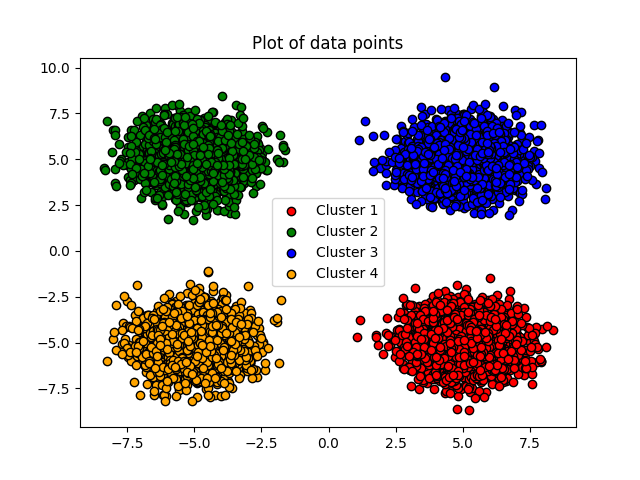
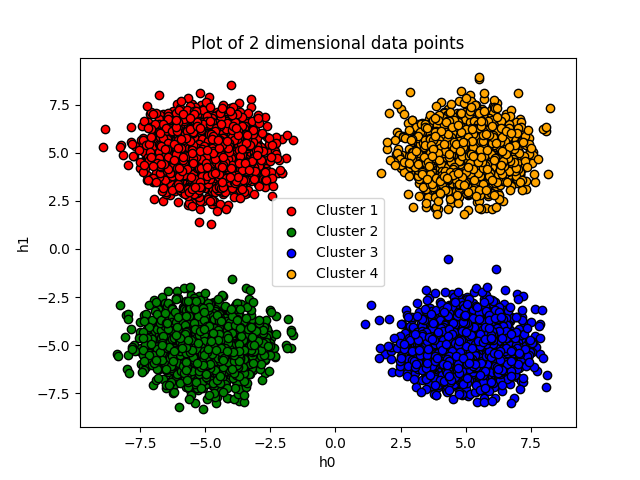
small change

diff --git a/Data/synthetic_plots.py b/Data/synthetic_plots.py
@@ -33,8 +33,9 @@ def plot_points(x, y):
     plt.scatter(x2, y2, color=['green'], label='Cluster 2', edgecolors=(0, 0, 0))
     plt.scatter(x3, y3, color=['blue'], label='Cluster 3', edgecolors=(0, 0, 0))
     plt.scatter(x4, y4, color=['orange'], label='Cluster 4', edgecolors=(0, 0, 0))
+    plt.xlabel("h0")
+    plt.ylabel("h1")
     plt.legend()
-    plt.title('Plot of data points')
 
 
 # Assigning cluster no. based on coordinate system
@@ -61,7 +62,7 @@ def sigmoid(z):
     return z_hat
 
 
-def to_higher_dimension(x):
+def to_higher_dimension(x, y):
     """
     transform data from 2-d to 100-d using non-linear transformation
     assume data points to be 2-dimension
@@ -73,24 +74,34 @@ def to_higher_dimension(x):
     W = np.random.normal(loc=0, scale=1, size=(10, 2))
     # U=np.random.normal(loc=0,scale=1,size=(100,10))
     x_new = np.square(sigmoid(np.dot(W, x.T))).T
-    return x_new
+    return x_new, y
 
 
-def to_higher_dimension2(x):
+def to_higher_dimension2(x, y):
     W = np.random.normal(loc=0, scale=1, size=(10, 2))
     # U=np.random.normal(loc=0,scale=1,size=(100,10))
     x_new = np.tanh(sigmoid(np.dot(W, x.T))).T
-    return x_new
+    return x_new, y
+
+
+def to_higher_dimension3(x, y):
+    W = np.random.normal(loc=0, scale=1, size=(10, 2))
+    U = np.random.normal(loc=0, scale=1, size=(100, 10))
+
+    x_new = sigmoid(np.dot(U, sigmoid(np.dot(W, x.T)))).T
+    return x_new, y
 
 
 if __name__ == '__main__':
     x, y = syn_data_points()
     plot_points(x, y)
+    plt.title('Plot of 2 dimensional data points')
     plt.savefig("../data_points_2_dim.png")
     plt.close()
-    x_high = to_higher_dimension2(x)
+    x_high, _ = to_higher_dimension3(x, y)
 
     pca = PCA(n_components=2)
     x_pca = pca.fit_transform(x_high)
     plot_points(x_pca, y)
+    plt.title('Plot of data points after PCA')
     plt.savefig("../data_points_100_dim.png")

diff --git a/Data/synthetic_data_generation.py b/Data/synthetic_data_generation.py
@@ -9,7 +9,7 @@ def syn_data_points(n_samples=10000):
     :return:
     """
     # centers of the clusters
-    centers = [(-5, -5), (5, -5), (-5, 5), (5, 5)]
+    centers = [(5, 5), (-5, 5), (-5, -5), (5, -5)]
 
     x, y = make_blobs(n_samples=n_samples, n_features=2, cluster_std=1.0,
                       centers=centers, shuffle=False, random_state=42)
